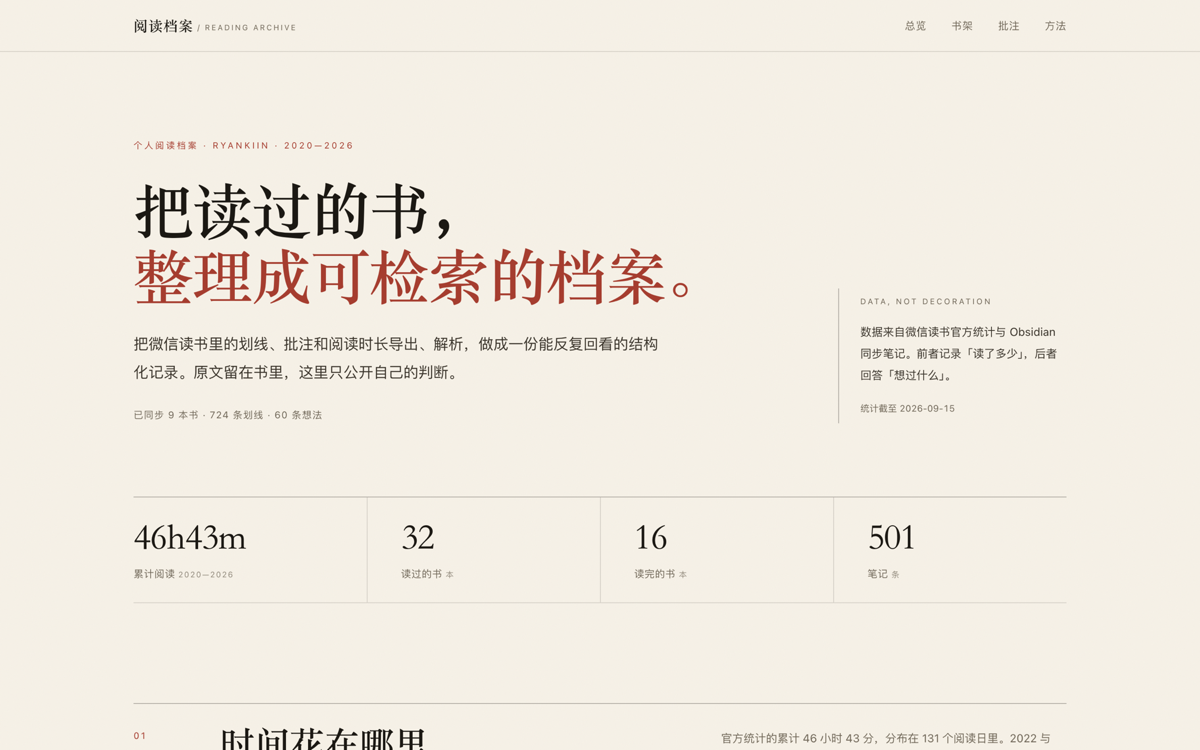
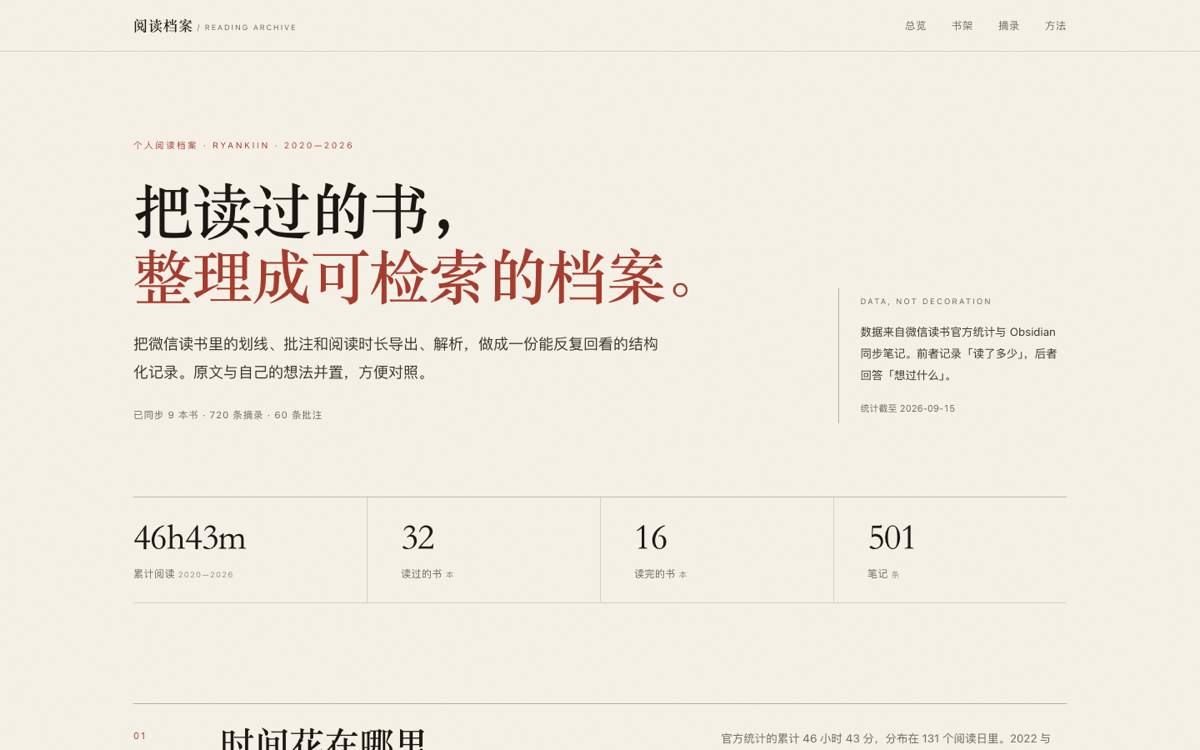
docs: align reading archive copy and preview

diff --git a/site/index.html b/site/index.html
@@ -122,7 +122,7 @@
           <li><span class="step-no">01</span><div><h3>同步</h3><p>微信读书 → Obsidian。用 obsidian-weread-plugin 把划线、想法、进度和时长同步成本地 Markdown。</p></div></li>
           <li><span class="step-no">02</span><div><h3>解析</h3><p>Node 脚本读取 frontmatter 与正文区块，按书聚合章节，去重、清洗时间，输出 JSON。</p></div></li>
           <li><span class="step-no">03</span><div><h3>生成</h3><p>由 JSON 渲染静态页面，不依赖框架和第三方请求；样式与脚本都是手写的。</p></div></li>
-          <li><span class="step-no">04</span><div><h3>校验</h3><p>单元测试覆盖解析边界，隐私检查确认 Cookie、联系方式与本机路径不进入产物；原文只随对应批注出现。</p></div></li>
+          <li><span class="step-no">04</span><div><h3>校验</h3><p>单元测试覆盖解析边界，隐私检查确认 Cookie、联系方式与本机路径不进入产物；原文与批注分开标注，版权归原作者。</p></div></li>
         </ol>
         <div class="method-side">
           <div class="terminal" aria-label="构建命令">

diff --git a/README.md b/README.md
@@ -10,7 +10,7 @@
 
 微信读书记录「读了多少」，但划线、想法和阅读时长散落在 App 与笔记里，很难回看。市面上的年度报告通常只给截图，不能检索，也不能迁移。
 
-这个项目只做一件事：把「读过的痕迹」变成结构化数据，再用编辑式排版呈现出来。同时守住两条边界——不提供整书内容、不上传任何登录凭据；书籍原文只作为批注的短对照出现。
+这个项目只做一件事：把「读过的痕迹」变成结构化数据，再用编辑式排版呈现出来。同时守住两条边界——不提供整书内容、不上传任何登录凭据；书籍原文只作为个人阅读记录里的短片段出现，并明确版权归原作者。
 
 ## 站点包含什么
 
